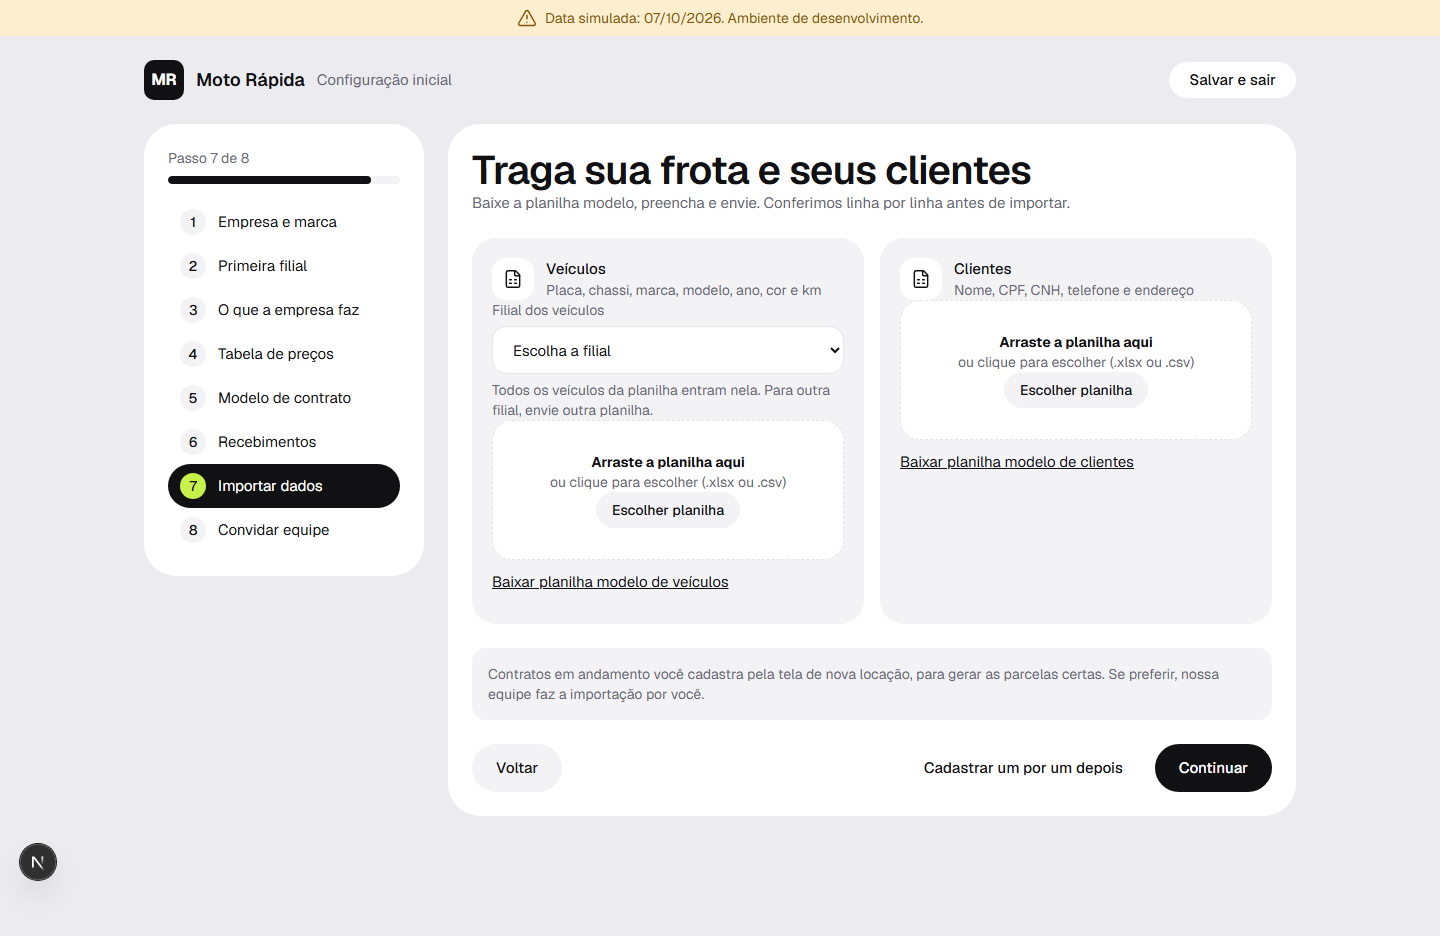
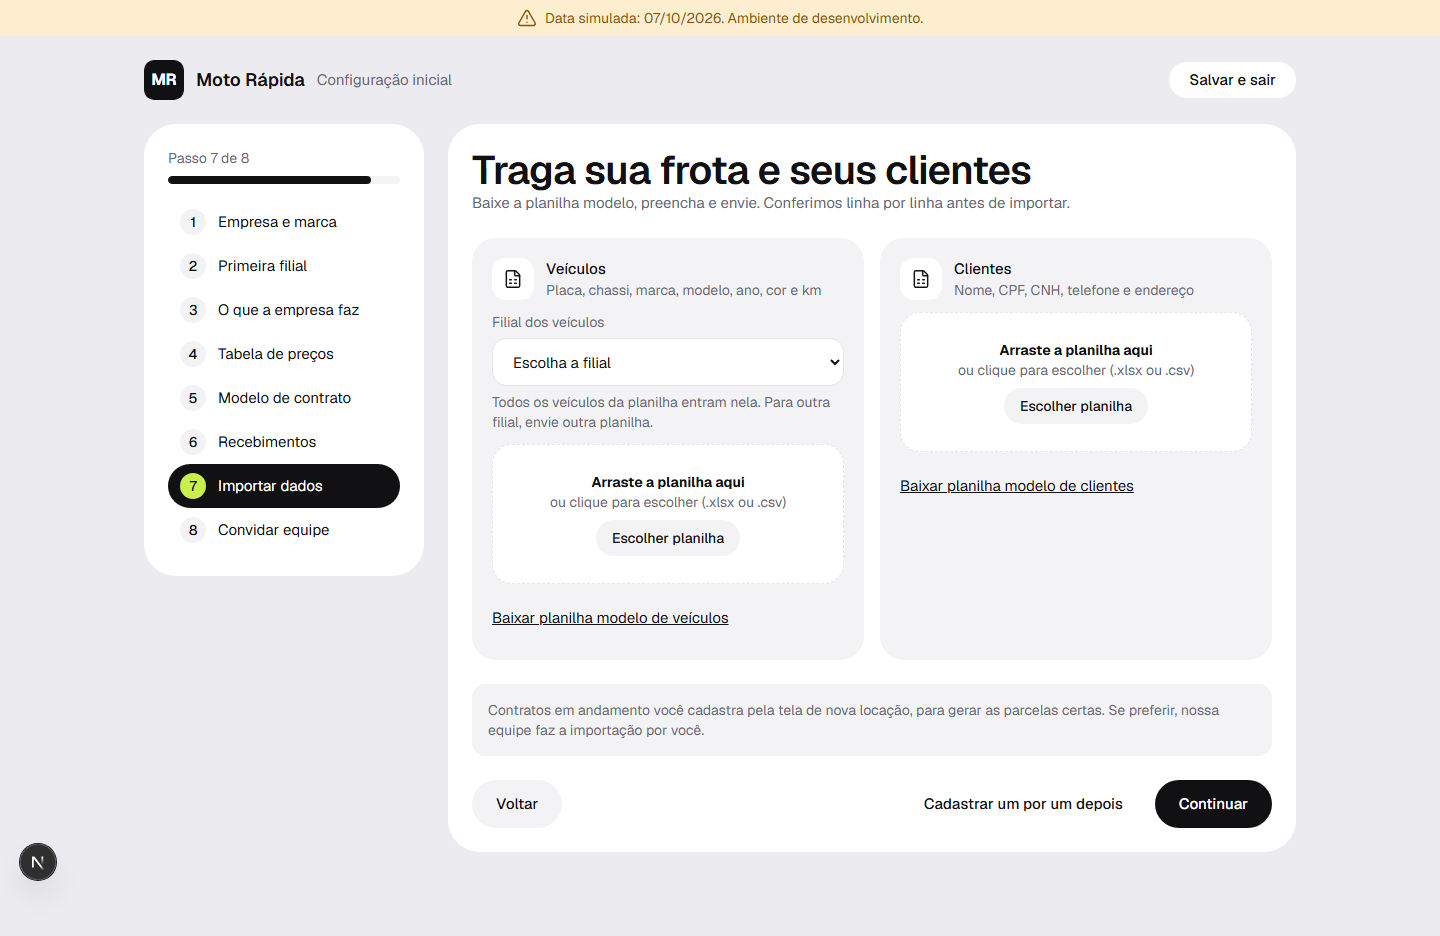
fix(implantacao): ajustes visuais da importação pedidos pelo design system [IMP-08]
Aviso sem categoria com o triângulo de alerta; respiro de 12 px na
caixa de veículos (as classes gap-3.5, px-3.5 e py-2.5 ficavam fora da
escala de espaços e viravam zero); na lista "Categoria de cada modelo",
select de 200 px e nome do modelo em 14 px numa linha no desktop, e no
celular nome e quantidade na mesma linha com o select embaixo. Capturas
refeitas.

diff --git a/frontend/src/components/implantacao/CaixaDeImportacao.tsx b/frontend/src/components/implantacao/CaixaDeImportacao.tsx
@@ -1,7 +1,7 @@
 "use client";
 
 import { useMutation, useQuery, useQueryClient } from "@tanstack/react-query";
-import { FileSpreadsheet, Info } from "lucide-react";
+import { FileSpreadsheet, Info, TriangleAlert } from "lucide-react";
 import Link from "next/link";
 import { useRef, useState } from "react";
 import { Button, Icone, LinhaDeLista, ListaDeLinhas, SelectField, StatusBadge, TextField } from "@/design-system";
@@ -73,7 +73,7 @@ function LinhaComErro({ imp, linha, corrigindo }: { imp: Importacao; linha: Linh
   const ocupado = salvar.isPending || ignorar.isPending;
   return (
     <li className="flex flex-col gap-2 border-b border-line py-2 text-caption last:border-b-0">
-      <div className="flex gap-2.5">
+      <div className="flex gap-2">
         <span className="wl-mono shrink-0">
           <span className="hidden md:inline">linha </span>
           <span className="md:hidden">L</span>
@@ -131,23 +131,29 @@ function CategoriaDeCadaModelo({ imp }: { imp: Importacao }) {
   const prontos = categorias.modelos.reduce((soma, m) => soma + m.veiculos, 0);
   const comCategoria = modelosComCategoria(categorias);
   return (
-    <section aria-label="Categoria de cada modelo" className="rounded-[18px] bg-surface px-3.5 pt-3.5 pb-1">
+    <section aria-label="Categoria de cada modelo" className="rounded-[18px] bg-surface px-3 pt-3 pb-1">
       <div className="flex flex-wrap items-baseline gap-2">
         <span className="font-semibold">Categoria de cada modelo</span>
         <span className="text-caption text-ink-muted">
           {plural(total, "modelo", "modelos")} · {plural(prontos, "veículo pronto", "veículos prontos")}
         </span>
       </div>
-      <p className="m-0 mt-0.5 text-caption text-ink-muted">Todos os veículos do mesmo modelo entram na categoria que você escolher.</p>
+      <p className="m-0 mt-1 text-caption text-ink-muted">Todos os veículos do mesmo modelo entram na categoria que você escolher.</p>
       <ListaDeLinhas rotulo="Modelos da planilha">
         {categorias.modelos.map((m) => {
           const nome = nomeDoModelo(m);
           return (
             <LinhaDeLista
               key={nome}
-              titulo={nome}
-              apoio={plural(m.veiculos, "veículo", "veículos")}
+              titulo={
+                <span className="flex justify-between gap-2 md:text-caption md:font-medium">
+                  <span className="md:whitespace-nowrap">{nome}</span>
+                  <span className="font-normal text-ink-muted md:hidden">{plural(m.veiculos, "veículo", "veículos")}</span>
+                </span>
+              }
+              apoio={<span className="hidden md:inline">{plural(m.veiculos, "veículo", "veículos")}</span>}
               acao={
+                <div className="w-full md:w-[200px] md:[&_.wl-field]:!w-[200px] md:[&_.wl-input]:!h-10 md:[&_.wl-input]:!text-[14px]">
                 <SelectField
                   rotulo={`Categoria de ${nome}`}
                   rotuloOculto
@@ -157,12 +163,13 @@ function CategoriaDeCadaModelo({ imp }: { imp: Importacao }) {
                   disabled={escolher.isPending}
                   onChange={(e) => e.target.value && escolher.mutate({ marca: m.marca, modelo: m.modelo, categoria_id: Number(e.target.value) })}
                 />
+                </div>
               }
             />
           );
         })}
       </ListaDeLinhas>
-      <div className="py-2.5">
+      <div className="py-2">
         <StatusBadge tom={comCategoria === total ? "sucesso" : "alerta"}>{`${comCategoria} de ${plural(total, "modelo", "modelos")} com categoria`}</StatusBadge>
       </div>
       {escolher.isError && <Falha erro={escolher.error} />}
@@ -179,7 +186,7 @@ function PreparoDeVeiculos({ filialId, aoEscolher, erroDaFilial }: { filialId: s
     return (
       <>
         <p role="alert" className="m-0 flex items-start gap-3 rounded-md bg-warning-soft p-3 text-caption text-warning-ink">
-          <Icone de={Info} />
+          <Icone de={TriangleAlert} />
           <span>{p.motivo}</span>
         </p>
         <div>
@@ -261,7 +268,7 @@ export function CaixaDeImportacao({ tipo, atual }: { tipo: TipoDeImportacao; atu
   const enviando = !atual || atual.status === "falhou";
 
   return (
-    <section className="flex flex-col gap-3.5 rounded-lg bg-surface p-4 md:bg-surface-sunken md:p-5" aria-label={meta.titulo}>
+    <section className="flex flex-col gap-3 rounded-lg bg-surface p-4 md:bg-surface-sunken md:p-5" aria-label={meta.titulo}>
       <div className="flex items-center gap-3">
         <span className="grid size-[42px] shrink-0 place-items-center rounded-md bg-surface-sunken md:size-11 md:bg-surface" aria-hidden="true">
           <Icone de={FileSpreadsheet} />
@@ -341,7 +348,7 @@ export function CaixaDeImportacao({ tipo, atual }: { tipo: TipoDeImportacao; atu
 
       {enviando && !semPrecos && (
         <div
-          className={`flex h-[140px] flex-col items-center justify-center gap-1.5 rounded-[20px] border-[1.5px] border-dashed text-center text-caption text-ink-muted md:bg-surface ${arrastando ? "border-ink" : "border-line"}`}
+          className={`flex h-[140px] flex-col items-center justify-center gap-2 rounded-[20px] border-[1.5px] border-dashed text-center text-caption text-ink-muted md:bg-surface ${arrastando ? "border-ink" : "border-line"}`}
           onDragOver={(e) => {
             e.preventDefault();
             setArrastando(true);
